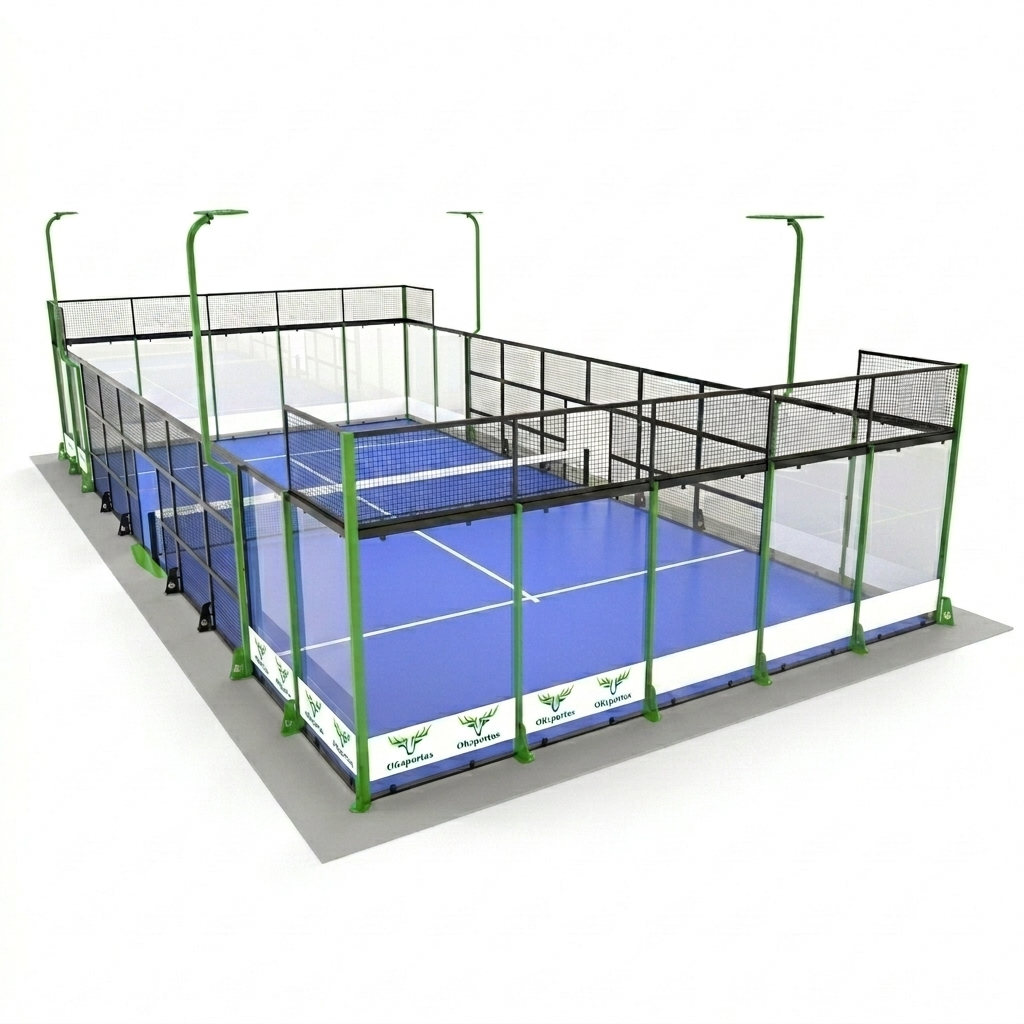
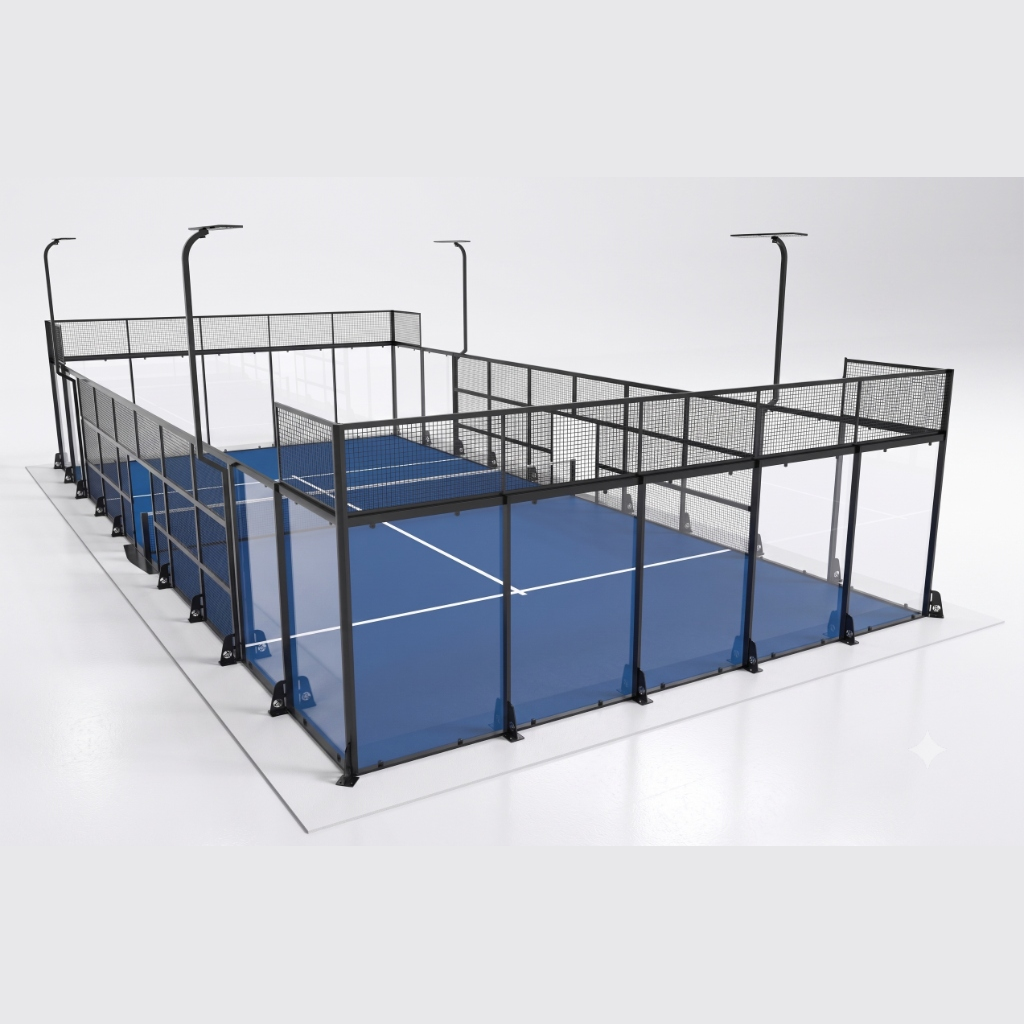
Update court thumbnails, product descriptions, and interactive tour

diff --git a/src/components/ProductCatalog.jsx b/src/components/ProductCatalog.jsx
@@ -260,12 +260,12 @@ export default function ProductCatalog({ currentLang }) {
         pl: 'Kort OK Portable'
       },
       desc: {
-        en: 'Complete installation flexibility. Uses a weighted, self-supporting platform base that requires no ground anchors. Ideal for temporary events, historic sites, rooftops, or rented arenas.',
-        lt: 'Maksimalus montavimo lankstumas. Naudoja savaime išsibalansuojantį platformos pagrindą, kuriam nereikia gręžti skylių į žemę. Idealu parodoms, stogams ar nuomojamoms patalpoms.',
-        lv: 'Pilnīga uzstādīšanas elastība. Izmanto nosvērtu, pašbalstošu platformas pamatni, kurai nav nepieciešami zemes enkuri. Ideāli piemērots pagaidu pasākumiem, vēsturiskām vietām, jumtiem vai nomātām arēnām.',
-        et: 'Täielik paigalduspaindlikkus. Kasutab raskusega isekandvat platvormi alust, mis ei vaja maapinnale ankurdamist. Ideaalne ajutisteks üritusteks, ajaloolistesse kohtadesse, katustele või renditud areenidele.',
-        de: 'Komplette Installationsflexibilität. Verwendet eine dotiert gewichtete, freistehende Plattformbasis, die keine Bodenanker erfordert. Ideal für temporäre Veranstaltungen, historische Stätten, Dächer oder gemietete Arenen.',
-        pl: 'Pełna elastyczność montażu. Wykorzystuje dociążoną, samonośną podstawę platformy, która nie wymaga kotwienia do podłoża. Idealna na imprezy tymczasowe, obiekty zabytkowe, dachy lub wynajmowane hale.'
+        en: 'Self-supporting portable court built on a weighted steel base. Uses tempered safety glass and professional padel turf with zero ground anchors required. Ideal for rooftops, plazas, or historic venues.',
+        lt: 'Savaime išsibalansuojanti padelio aikštelė ant pasunkinto plieninio pagrindo su grūdintu stiklu ir profesionalia danga. Nereikalauja ankeravimo ar pamatų. Puikiai tinka stogams, aikštėms ir nuomojamoms erdvėms.',
+        lv: 'Pašbalstošs mobilais laukums uz nosvērtas tērauda platformas ar rūdītu stiklu un profesionālu zālienu. Nebrīvē nevienu zemes enkuru. Ideāli piemērots jumtiem, laukumiem vai pagaidu vietām.',
+        et: 'Isekandev teisaldatav väljak raskusega terasalusel koos karastatud turvaklaasi ja spordimuruga. Ei vaja maapinnale ankurdamist. Ideaalne katustele, väljakutele või ajutistele pindadele.',
+        de: 'Freistehender mobiler Padel-Platz auf gewichteter Stahlbasis mit gehärtetem Sicherheitsglas und Profi-Kunstrasen. Erfordert keine Bodenverankerung. Ideal für Dachterrassen, Plätze oder temporäre Veranstaltungsorte.',
+        pl: 'Samonośny mobilny kort na dociążonej podstawie stalowej z hartowanym szkłem i profesjonalną trawą. Nie wymaga kotwienia do podłoża. Idealny na dachy, place lub tereny zabytkowe.'
       },
       image: portableImg,
       specs: {
@@ -286,7 +286,7 @@ export default function ProductCatalog({ currentLang }) {
           pl: 'Szkło hartowane bezpieczne 12 mm zaprojektowane ze wzmocnionymi profilami ramowymi, certyfikowane zgodnie z EN 12150-2 (TÜV Rheinland).'
         },
         turf: { 
-          en: 'Standard monofilament curly turf, easy to remove and re-lay, designed to meet EN 15330-1 specifications.', 
+          en: 'Standard monofilament padel turf, easy to remove and re-lay, designed to meet EN 15330-1 specifications.', 
           lt: 'Standartinė garbanoto monofilamento danga, lengvai išmontuojama, atitinkanti EN 15330-1 specifikacijas.',
           lv: 'Standarta monofilamenta lokainais zāliens, viegli noņemams un ieklājams, izstrādāts atbilstoši EN 15330-1 specifikācijām.',
           et: 'Standardne kähara kiuga monofilamentmuru, lihtne eemaldada ja uuesti paigaldada, vastab EN 15330-1 nõuetele.',
@@ -360,52 +360,54 @@ export default function ProductCatalog({ currentLang }) {
     {
       id: 'movable_classic',
       name: {
-        en: 'OK Movable Court (Classic)',
-        lt: 'OK Pernešama Aikštelė',
-        lv: 'OK Pārvietojamais laukums (Classic)',
-        et: 'OK Teisaldatav väljak (Classic)',
-        de: 'OK Mobiler Classic Platz',
-        pl: 'Kort OK Movable Classic'
+        en: 'OK Movable Court (Mobile)',
+        lt: 'OK Mobilioji Aikštelė',
+        lv: 'OK Mobilais laukums',
+        et: 'OK Mobiilne väljak',
+        de: 'OK Mobiler Padel Platz',
+        pl: 'Mobilny Kort OK Padel'
       },
       desc: {
-        en: 'Movable classic court designed for quick assembly and disassembly. Perfect for temporary sports events, exhibitions, and venues where permanent ground anchoring is restricted.',
-        lt: 'Klasikinė mobili padelio aikštelė, pritaikyta greitam surinkimui ir išmontavimui. Idealiai tinka laikinoms varžyboms, mugėms ar nuomojamoms patalpoms.',
-        lv: 'Pārvietojams klasiskais laukums, kas paredzēts ātrai montāžai un demontāžai. Lieliski piemērots pagaidu sporta pasākumiem, izstādēm un vietām, kur ir ierobežota pastāvīga enkurošana.',
-        et: 'Teisaldatav klassikaline väljak kiireks paigalduseks ja lahtivõtmiseks. Ideaalne ajutisteks spordiüritusteks, näitusteks ja kohtadesse, kus alaline ankurdamine on piiratud.',
-        de: 'Mobiler Classic Platz, konzipiert für schnellen Auf- und Abbau. Perfekt für temporäre Sportveranstaltungen, Messen und Orte, an denen eine dauerhafte Bodenverankerung eingeschränkt ist.',
-        pl: 'Mobilny kort klasyczny przeznaczony do szybkiego montażu i demontażu. Idealny na tymczasowe imprezy sportowe, targi oraz obiekty, w których stałe kotwienie do podłoża jest ograniczone.'
+        en: 'Ultra-portable mobile padel court designed for rapid pop-up setup. Features impact-resistant polycarbonate panels (no glass) and interlocking synthetic sport flooring (no artificial grass or sand), requiring zero ground drilling or heavy base preparation.',
+        lt: 'Mobili padelio aikštelė, sukurta itin greitam surinkimui. Naudoja smūgiams atsparias polikarbonato plokštes (vietoj stiklo) ir modulinius sportinius kilimėlius (be dirbtinės žolės ir smėlio), todėl nereikia jokių pamatų ar gręžimo darbų.',
+        lv: 'Mobilais padela laukums ātrai uzstādīšanai. Izmanto triecienizturīgus polikarbonāta paneļus (bez stikla) un modulāru sintētisko sporta segumu (bez mākslīgā zālāja un smiltīm), neprasot urbšanu zemē vai betona pamatni.',
+        et: 'Mobiilne padeliväljak kiireks paigalduseks. Kasutab löögikindlaid polükarbonaatpaneele (mitte klaasi) ja moodulspordikatet (ilma kunstmuruta ja liivata), mis ei vaja maapinna puurimist ega betoonalust.',
+        de: 'Extrem mobiler Padel-Platz für schnelle Pop-up-Installationen. Ausgestattet mit schlagfesten Polycarbonat-Wandpanelen (kein Glas) und einem modularen Sportboden (kein Kunstrasen und kein Sand), ganz ohne Bodenbohrungen.',
+        pl: 'Mobilny kort do padla stworzony do szybkiego montażu. Wyposażony w nietłukące płyty z poliwęglanu (zamiast szkła) oraz modułową nawierzchnię sportową (bez sztucznej trawy i piasku), nie wymaga wiercenia w podłożu.'
       },
       image: movableClassicImg,
       specs: {
         frame: { 
-          en: '100x100x3mm movable steel frame structure, electrostatic powder coated, mesh panels EN 10223-5 compliant.', 
-          lt: '100x100x3mm mobili plieno konstrukcija, miltelinis dažymas, suvirintas tinklas atitinka EN 10223-5.',
-          lv: '100x100x3mm pārvietojama tērauda rāmja struktūra, pārklāta ar elektrostatisko pulveri, sieta paneļi atbilst EN 10223-5.',
-          et: '100x100x3mm teisaldatav terasraam, pulbervärvitud, keevisvõrk vastab EN 10223-5 nõuetele.',
-          de: '100x100x3mm mobile Stahlrahmenstruktur, elektrostatisch pulverbeschichtet, Gitterpaneele konform mit EN 10223-5.',
-          pl: 'Mobilna konstrukcja ze stali 100x100x3 mm, malowana proszkowo elektrostatycznie, panele siatkowe zgodne z EN 10223-5.'
+          en: 'Hot-dip galvanized Q235 steel frame with click-in modular assembly and stabilizing feet for drill-free setup.',
+          lt: 'Karštai cinkuotas Q235 plieno rėmas su greito sujungimo sistema ir stabilizavimo kojelėmis (montavimas be gręžimo).',
+          lv: 'Karsti cinkots Q235 tērauda rāmis ar ātrās savienošanas sistēmu un stabilizējošām kājām (montāža bez urbšanas).',
+          et: 'Kuumtsingitud Q235 terasraam klõpskinnituse ja stabiliseerivate jalgadega (paigaldus puurimata).',
+          de: 'Feuerverzinkter Q235-Stahlrahmen mit Klicksystem und Stabilisierungsfüßen für bohrfreie Montage.',
+          pl: 'Ocynkowana ogniowo rama ze stali Q235 z systemem modułowym i stopkami stabilizującymi (montaż bez wiercenia).'
         },
         glass: { 
-          en: '12mm tempered safety glass with heavy-duty connection fasteners, certified to EN 12150-2 (TÜV Rheinland).', 
-          lt: '12mm grūdintas saugus stiklas su tvirtomis jungtimis, sertifikuotas pagal EN 12150-2 (TÜV Rheinland).',
-          lv: '12mm rūdīts drošības stikls ar paaugstinātas izturības savienojuma stiprinājumiem, sertificēts saskaņā ar EN 12150-2 (TÜV Rheinland).',
-          et: '12mm karastatud turvaklaas tugevate ühenduskinnitustega, sertifitseeritud vastavalt EN 12150-2-le (TÜV Rheinland).',
-          de: '12mm gehärtetes Sicherheitsglas mit hochbelastbaren Verbindungsbeschlägen, zertifiziert nach EN 12150-2 (TÜV Rheinland).',
-          pl: 'Szkło hartowane bezpieczne 12 mm z wytrzymałymi łącznikami konstrukcyjnymi, certyfikowane zgodnie z EN 12150-2 (TÜV Rheinland).'
+          en: 'Lightweight Polycarbonate Sheets (No Glass): 250x stronger than glass, virtually unbreakable, pre-assembled into frame modules for fast installation.',
+          lt: 'Polikarbonato plokštės (ne stiklas): 250 k. atsparesnės smūgiams nei stiklas, nešukiškos ir iš anksto sumontuotos į rėmo modulius.',
+          lv: 'Polikarbonāta paneļi (bez stikla): 250 reizes izturīgāki par stiklu, nesaplēšami un iepriekš samontēti rāmju moduļos.',
+          et: 'Polükarbonaadist paneelid (mitte klaas): 250 korda löögikindlamad kui klaas, kerged ja raamimoodulitesse eeltulnud.',
+          de: 'Polycarbonat-Platten (kein Glas): 250-mal stoßfester als Glas, bruchsicher und für schnelle Montage im Rahmen vormontiert.',
+          pl: 'Płyty z poliwęglanu (zamiast szkła): 250-krotnie bardziej odporne na uderzenia niż szkło, nietłukące i wstępnie zmontowane w ramy.'
         },
         turf: { 
-          en: 'Standard monofilament curly turf, easy to remove and re-lay, designed to meet EN 15330-1 specifications.', 
-          lt: 'Standartinė garbanoto monofilamento danga, lengvai išmontuojama, atitinkanti EN 15330-1 specifikacijas.',
-          lv: 'Standarta monofilamenta lokainais zāliens, viegli noņemams un ieklājams, izstrādāts atbilstoši EN 15330-1 specifikācijām.',
-          et: 'Standardne kähara kiuga monofilamentmuru, lihtne eemaldada ja uuesti paigaldada, vastab EN 15330-1 nõuetele.',
-          de: 'Standardmäßig gekräuselter Monofilament-Kunstrasen, leicht zu entfernen und neu zu verlegen, konform mit EN 15330-1.',
-          pl: 'Standardowa trawa kędzierzawa monofilamentowa, łatwa do demontażu i ponownego układania, zaprojektowana zgodnie z wymogami EN 15330-1.'
+          en: 'Modular Sport Surface (No Grass): Interlocking high-density synthetic sport tiles (zero artificial grass or sand required), moisture and weather resistant.',
+          lt: 'Modulinė sporto danga (be žolės): Sintetinės sportinės plytelės (nereikia dirbtinės žolės ar smėlio), atspari drėgmei ir atmosferos poveikiui.',
+          lv: 'Modulārs sporta segums (bez zālāja): Sintētiskās sporta flīzes (nav nepieciešams mākslīgais zāliens vai smiltis), izturīgs pret mitrumu.',
+          et: 'Modulaarne spordikate (ilma muruta): Sünteetilised spordiplaadid (ei vaja kunstmuru ega liiva), niiskus- ja ilmastikukindel.',
+          de: 'Modularer Sportboden (kein Kunstrasen): Ineinandergreifende synthetische Sportfliesen (kein Kunstrasen oder Sand erforderlich), wetter- und feuchtigkeitsbeständig.',
+          pl: 'Modułowa nawierzchnia sportowa (bez trawy): Panele syntetyczne (nie wymaga sztucznej trawy ani piasku), odporna na wilgoć i warunki atmosferyczne.'
         },
         lighting: { 
-          en: '4x 400W professional LED floodlights (YXR-FL-400W), CE EMC compliant.', 
-          lt: '4x 400W profesionalūs LED šviestuvai (YXR-FL-400W), atitinkantys CE EMC direktyvas.',
-          lv: '4x 400W profesionāli LED gaismekļi (YXR-FL-400W), atbilst CE EMC.',
-          et: '4x 400W professionaalsed LED-valgustid (YXR-FL-400W), vastavad CE EMC nõuetele.'
+          en: '4x 200W/300W high-output LED floodlights (30,000+ lumens), CE EMC certified with modular plug-and-play wiring.',
+          lt: '4x 200W/300W galingi LED prožektoriai (30 000+ liumenų), CE EMC sertifikatas su moduliniais kištukiniais kabeliais.',
+          lv: '4x 200W/300W LED prožektori (30 000+ lūmeni), CE EMC sertificēti ar moduļu kabeļiem.',
+          et: '4x 200W/300W võimsad LED-prožektorid (30 000+ luumenit), CE EMC sertifikaat pistikühendusega.',
+          de: '4x 200W/300W Hochleistungs-LED-Flutlichtstrahler (30.000+ Lumen), CE-EMV-zertifiziert mit Plug-and-Play-Verkabelung.',
+          pl: '4 reflektory LED 200W/300W (30 000+ lumenów), certyfikat CE EMC z okablowaniem plug-and-play.'
         }
       }
     }

diff --git a/src/components/Padel360Viewer.jsx b/src/components/Padel360Viewer.jsx
@@ -1,5 +1,5 @@
 import React, { useState } from 'react';
-import panImg from '../assets/Cfpadel/Super Panoramic/ok_ultimate_court_illustration.png';
+import panImg from '../assets/Cfpadel/Classic/ok_classic_court_illustration.png';
 
 export default function Padel360Viewer({ currentLang }) {
   const [activeHotspot, setActiveHotspot] = useState(null);
